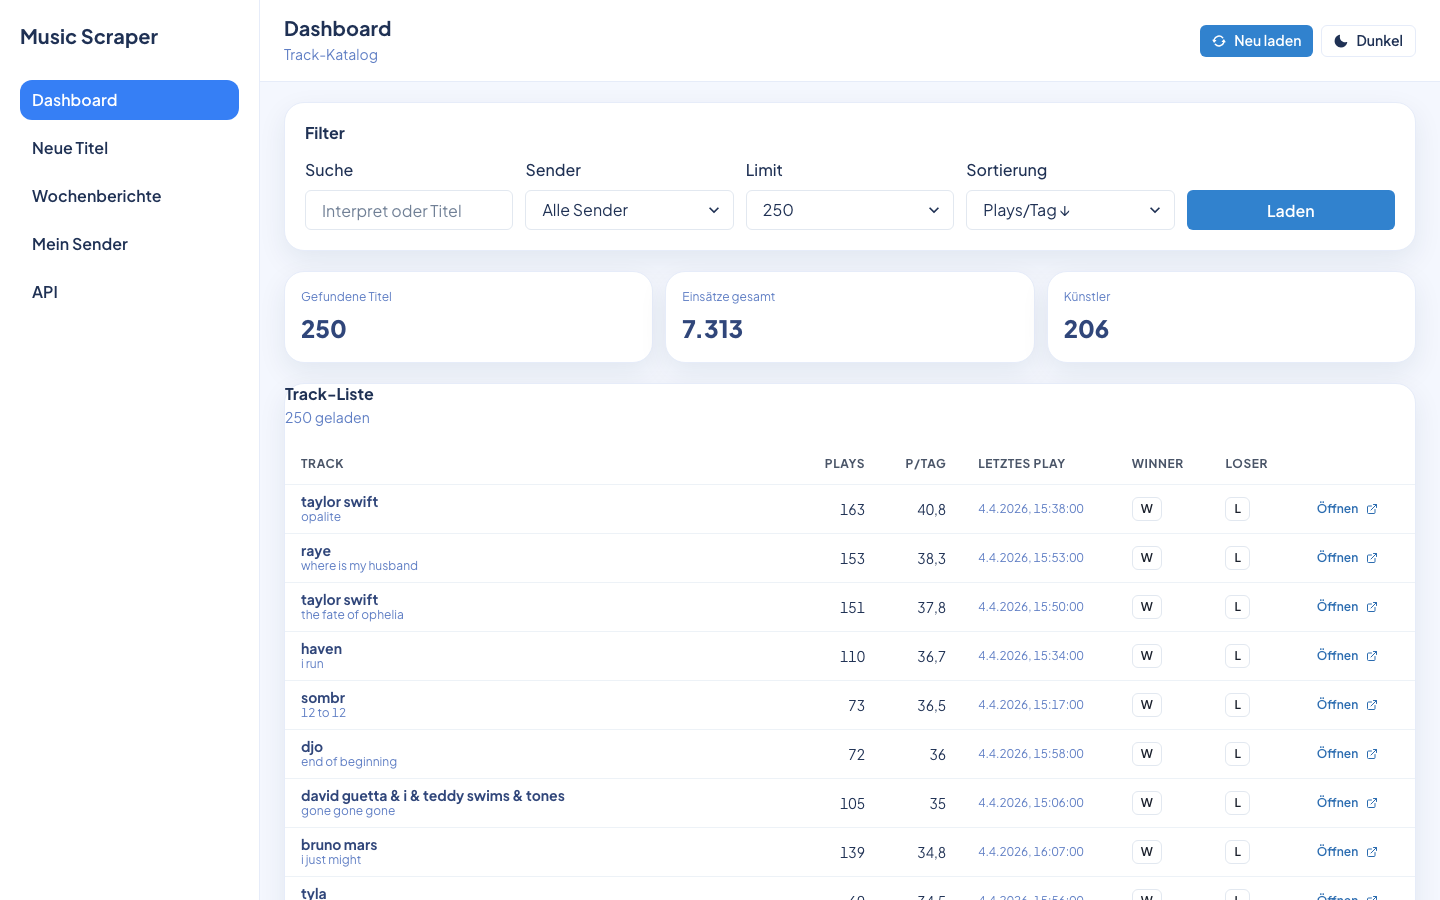
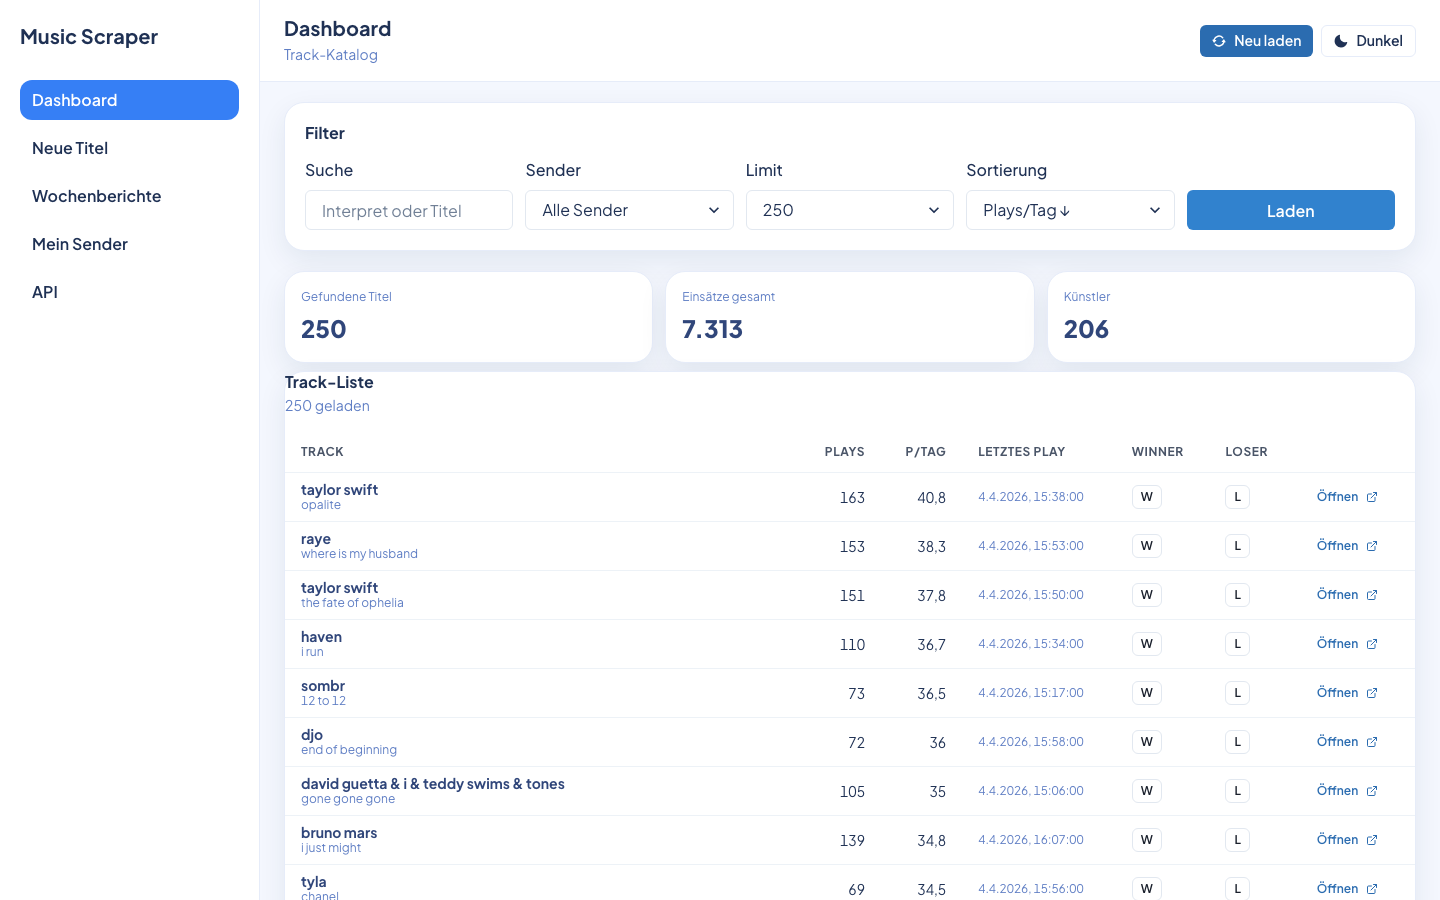
Dashboard: Track-Liste direkt unter Kennzahlen, Dark-Mode-Screenshots in README
- Stats-Grid und Track-Liste-Karte in engem VStack (spacing 2 statt 5) gruppiert,
  sodass 'Track-Liste' visuell als Abschnittstitel direkt unter 'Gefundene Titel' sitzt
- README: Dashboard, Song-Detail und Wochenberichte jetzt mit Light- und Dark-Mode-Screenshot
- Neues Script docs/make-screenshots.mjs für reproduzierbare Screenshot-Aufnahme

diff --git a/public/assets/dashboard-horizon.js b/public/assets/dashboard-horizon.js
@@ -509,15 +509,16 @@ function DashboardApp() {
         )
       ),
 
-      // Stats
-      React.createElement(Chakra.SimpleGrid, { columns: { base: 2, lg: 3 }, spacing: '3' },
-        React.createElement(StatCard, { label: 'Gefundene Titel', value: formatNumber(trackSummary.tracks) }),
-        React.createElement(StatCard, { label: 'Einsätze gesamt', value: formatNumber(trackSummary.plays) }),
-        React.createElement(StatCard, { label: 'Künstler', value: formatNumber(trackSummary.artists) })
-      ),
+      // Stats + Track list (grouped tightly so the section title sits directly below the KPIs)
+      React.createElement(Chakra.VStack, { align: 'stretch', spacing: '2' },
+        React.createElement(Chakra.SimpleGrid, { columns: { base: 2, lg: 3 }, spacing: '3' },
+          React.createElement(StatCard, { label: 'Gefundene Titel', value: formatNumber(trackSummary.tracks) }),
+          React.createElement(StatCard, { label: 'Einsätze gesamt', value: formatNumber(trackSummary.plays) }),
+          React.createElement(StatCard, { label: 'Künstler', value: formatNumber(trackSummary.artists) })
+        ),
 
-      // Track list
-      React.createElement(PanelCard, { title: 'Track-Liste', subtitle: loadingTracks ? 'Lade...' : `${formatNumber(sortedTracks.length)} geladen`, p: '0' },
+        // Track list
+        React.createElement(PanelCard, { title: 'Track-Liste', subtitle: loadingTracks ? 'Lade...' : `${formatNumber(sortedTracks.length)} geladen`, p: '0' },
         React.createElement(Chakra.TableContainer, { className: 'horizon-scroll' },
           React.createElement(Chakra.Table, { size: 'sm' },
             React.createElement(Chakra.Thead, { position: 'sticky', top: '0', bg: 'cardBg', zIndex: '1' },
@@ -569,7 +570,8 @@ function DashboardApp() {
             )
           )
         )
-      ),
+      ) // PanelCard Track-Liste
+      ), // end Stats+TrackList VStack
 
       // Admin Merge
       React.createElement(PanelCard, { title: 'Admin: Track-Merge' },

diff --git a/README.md b/README.md
@@ -26,9 +26,11 @@ Music Scraper sammelt Playlisten von Radiosendern automatisch ein, normalisiert 
 
 ### Dashboard — Track-Katalog
 
-Durchsuchbare, sortierbare Liste aller Tracks mit Plays, Plays/Tag und Last-Seen. Per Klick auf „Öffnen" gelangt man zur Song-Detail-Seite. Winner/Loser-Buttons für schnelles Track-Merging direkt in der Tabelle.
+Durchsuchbare, sortierbare Liste aller Tracks mit Plays, Plays/Tag und Last-Seen. Die Kennzahlen (Gefundene Titel, Einsätze, Künstler) stehen direkt über der Tabelle. Per Klick auf „Öffnen" gelangt man zur Song-Detail-Seite. Winner/Loser-Buttons für schnelles Track-Merging direkt in der Tabelle.
 
-![Dashboard](docs/screenshots/dashboard.png)
+![Dashboard Light](docs/screenshots/dashboard.png)
+
+![Dashboard Dark](docs/screenshots/dashboard-dark.png)
 
 ---
 
@@ -36,7 +38,9 @@ Durchsuchbare, sortierbare Liste aller Tracks mit Plays, Plays/Tag und Last-Seen
 
 Jeder Track hat eine eigene Seite mit Score (0–100), Momentum, Sender-Breite und allen Plays-Metriken.
 
-![Song-Detail](docs/screenshots/track-detail.png)
+![Song-Detail Light](docs/screenshots/track-detail.png)
+
+![Song-Detail Dark](docs/screenshots/track-detail-dark.png)
 
 Weiter unten: Kumulierter Verlauf, Plays pro Zeitraum und Sender-Vergleich als Balkendiagramme.
 
@@ -64,7 +68,9 @@ Wähle deinen Sender aus und vergleiche ihn mit dem Rest des Markts. Zeigt verpa
 
 Automatisch generierte Übersichten mit Top-Tracks, Neueinsteigern, Absteigern und Sender-Vergleich — für jede abgelaufene Woche abrufbar.
 
-![Wochenberichte](docs/screenshots/weekly-reports.png)
+![Wochenberichte Light](docs/screenshots/weekly-reports.png)
+
+![Wochenberichte Dark](docs/screenshots/weekly-reports-dark.png)
 
 ---
 
